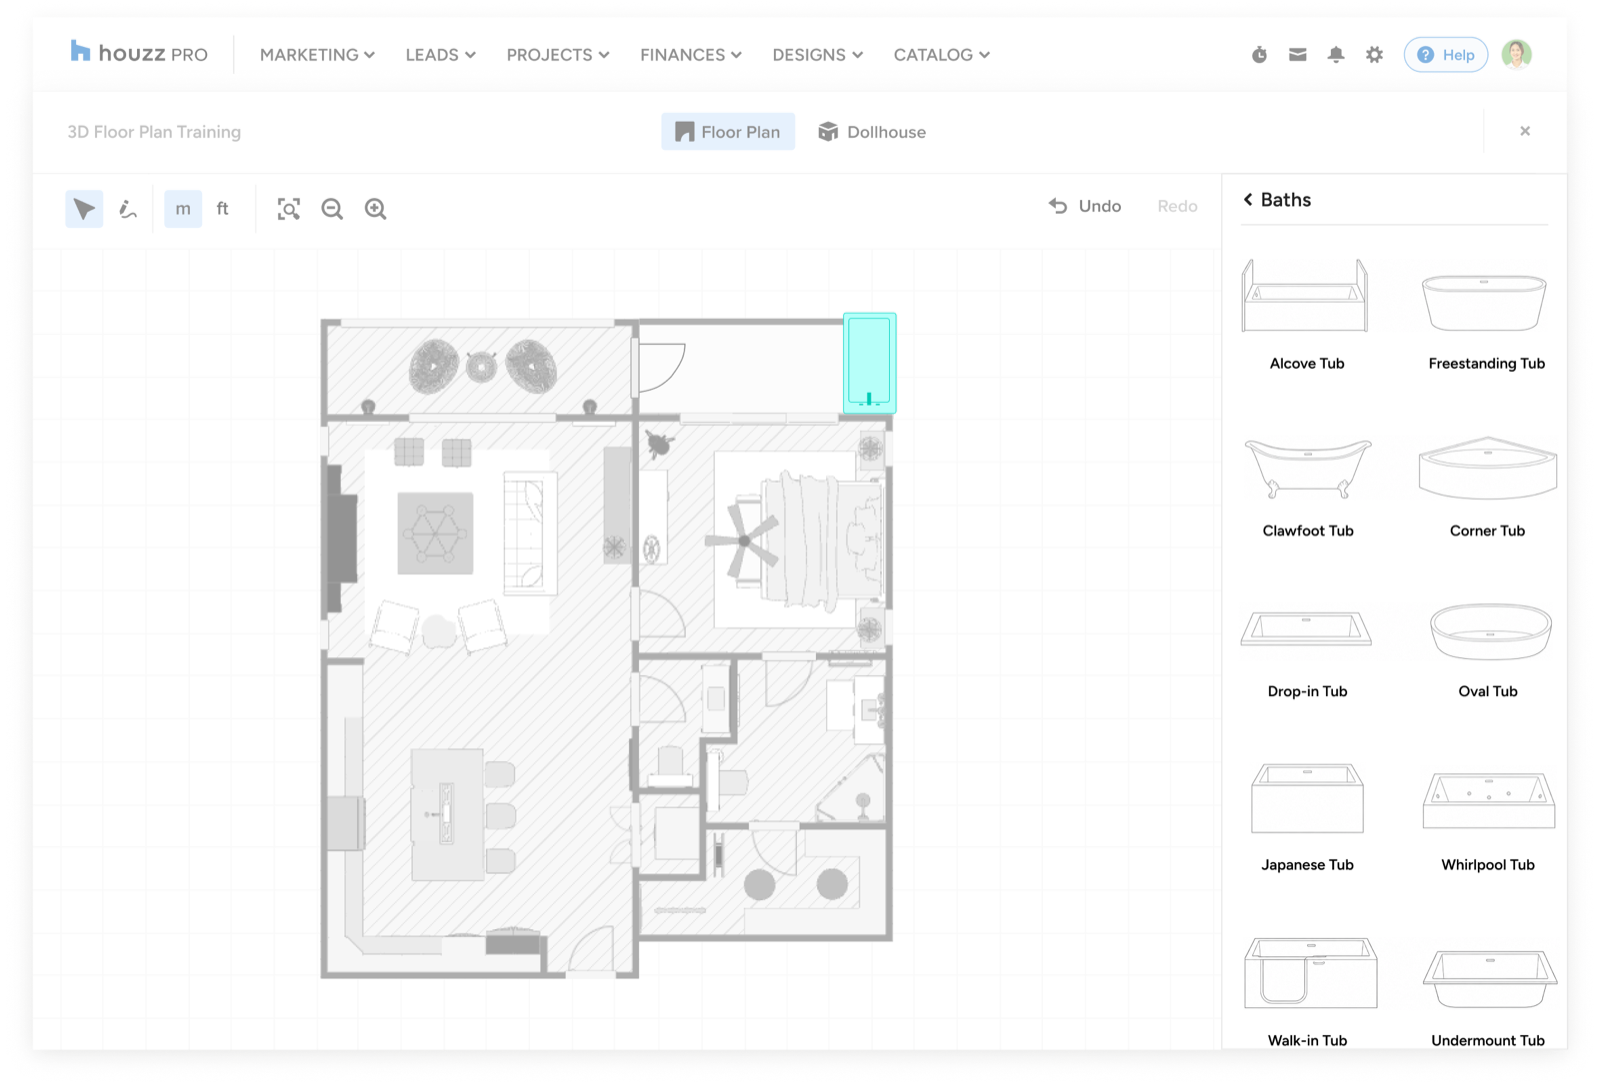
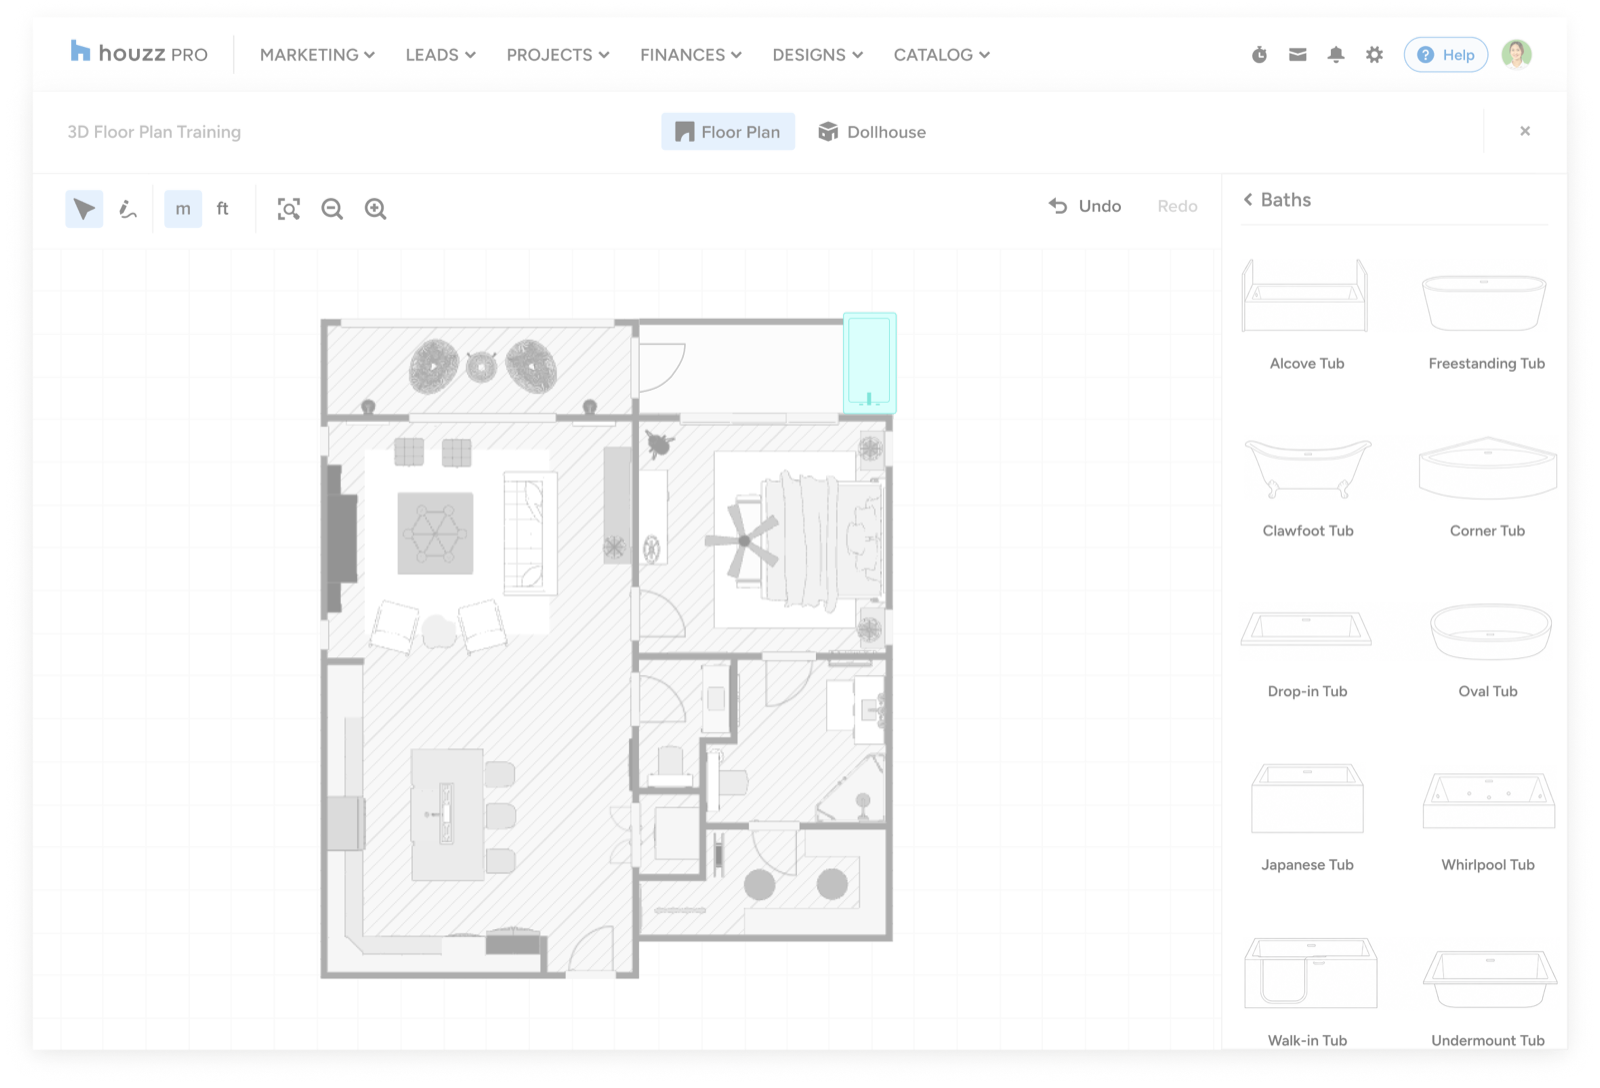
Add Items tutorial step: layered composite (approved)
- Build Add Items with the locked pattern: base + positioned modal + gif
  in the modal's preview slot (no pulse - reference shows none; the placed
  bath is baked into the base).
- Cap add-items-base alpha at ~128 so the whole screen fades uniformly,
  matching the "draw a room" (Pen Tool) screen (previously the Baths side
  panel and teal bath rendered fully opaque).

diff --git a/work/floor-plan-onboarding.html b/work/floor-plan-onboarding.html
@@ -128,7 +128,13 @@
 <div class="wide section">
   <div class="stage__head"><span class="stage__num">03</span><span class="stage__name">Add items - structures, products, source</span></div>
   <p>The side menu was introduced in a deliberate sequence: Structures for the architectural shell, Products for quick placeholders, and Source for real marketplace items. Inline feedback corrected mistakes while keeping the next step available - feedback, not failure states: a misplaced item suggested a correction without preventing the user from continuing.</p>
-  <p class="mono" style="margin-top:var(--s4)">Visual pending - will use the approved layered pattern once the Pen Tool prototype is signed off.</p>
+  <figure style="margin-top:var(--s4); --mleft:3.3%;--mtop:26.8%;--mw:24%; --gleft:8.3%;--gtop:51.6%;--gw:14%;--gh:17%;--gfit:cover;--gpos:center">
+    <div class="fp-stage">
+      <img class="fp-base" src="../media/onboarding/add-items-base.png" alt="">
+      <div class="fp-modal"><img src="../media/onboarding/add-items-modal.png" alt="Adding Items tutorial: open the Products tab, choose a bath, and place it in the room"></div>
+      <img class="fp-gif" src="../media/onboarding/drag-bath.gif" alt="Selecting and placing a bath in the tutorial preview">
+    </div>
+  </figure>
 </div>
 
 <!-- Stage 4 - Review -->
